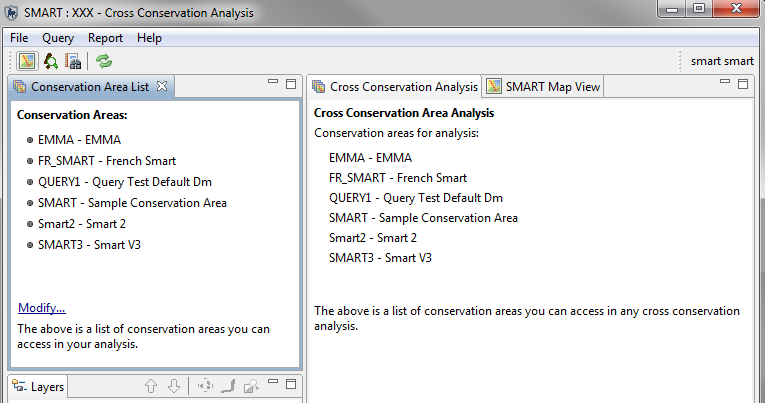
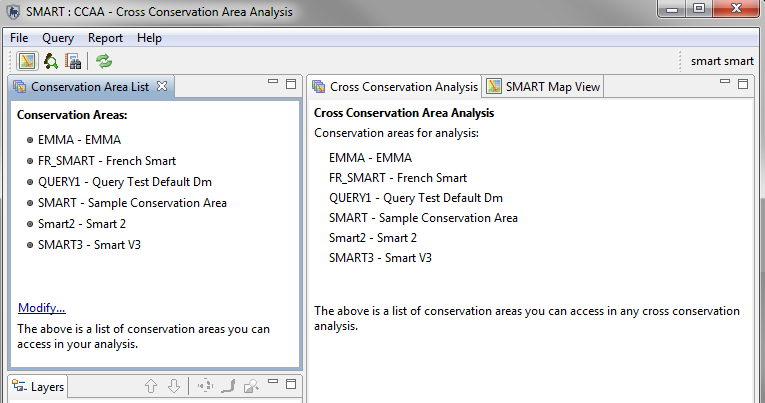
merge fixes from 2.0.0 branch and other bug fixes related to importing waypoints
git-svn-id: https://subversion.assembla.com/svn/smart-cs/trunk@2077 37136b1e-4cb1-4992-8394-573b48a9bdce

Changed region(s): [[0.0, 0.0, 0.3908, 0.0596]]

diff --git a/source/java/org.wcs.smart.help/html/ComponentsOfSMART.html b/source/java/org.wcs.smart.help/html/ComponentsOfSMART.html
@@ -2174,8 +2174,7 @@ height="200" /></p>
 
 <p></p>
 
-<h4><strong><a id="printPlan">Printing
-Plans</a></strong></h4>
+<h4><strong><a id="printPlan">Printing Plans</a></strong></h4>
 
 <p>After a plan has been created it can be converted and viewed in a PDF
 format. The PDF can then be printed or saved for later access. </p>
@@ -2606,10 +2605,12 @@ installation of SMART. </p>
 
 <p></p>
 
-<p><img alt="Cross Conservation Area Login" src="images/X-CA_login.png"
-width="495" height="314" /></p>
+<p><img alt="CCAA Login" src="images/XCA_Login.png" width="500" height="320"
+/></p>
 
-<p>To log in, the user selects <strong>"XXX - Cross Conservation
+<p></p>
+
+<p>To log in, the user selects <strong>"CCAA - Cross Conservation Area
 Analysis"</strong> and is required to enter in the Username and Password that
 is common to the Conservation Areas.</p>
 
@@ -2634,7 +2635,7 @@ elements, the user can begin the process of building queries and reports.</p>
 
 <p><strong>Overview Perspective</strong></p>
 
-<p><img alt="XCA_OVERVIEW" src="images/XCA_OVERVIEW.png" width="765"
+<p><img alt="CCAA Overview" src="images/XCA_OVERVIEW.png" width="765"
 height="403" /></p>
 
 <p></p>
@@ -2783,18 +2784,6 @@ as a standard report.</p>
   <li>Save the report</li>
   <li>Run and/or export a report</li>
 </ul>
-
-<p></p>
-
-<p></p>
-
-<p></p>
-
-<p></p>
-
-<p></p>
-
-<p></p>
 
 <p></p>
 </body>

diff --git a/source/java/org.wcs.smart.patrol/src/org/wcs/smart/patrol/internal/ui/importwp/GPSDataImport.java b/source/java/org.wcs.smart.patrol/src/org/wcs/smart/patrol/internal/ui/importwp/GPSDataImport.java
@@ -22,6 +22,7 @@
 package org.wcs.smart.patrol.internal.ui.importwp;
 
 import java.io.File;
+import java.sql.Time;
 import java.text.DateFormat;
 import java.text.MessageFormat;
 import java.text.ParseException;
@@ -36,6 +37,7 @@ import java.util.HashMap;
 import java.util.HashSet;
 import java.util.Iterator;
 import java.util.List;
+import java.util.Locale;
 import java.util.Map;
 import java.util.Map.Entry;
 import java.util.Set;
@@ -165,27 +167,28 @@ public class GPSDataImport {
 			for(PatrolLegDay pld : modified){
 				addedWaypoints.addAll(pld.getWaypoints());
 			}
-			//TODO: ensure this is tested
-//			//remove unassigned waypoints
-//			for (Iterator<Waypoint> iterator = waypoints.iterator(); iterator.hasNext();) {
-//				Waypoint wpnt = (Waypoint) iterator.next();
-//				if (wpnt.getPatrolLegDay() == null){
-//					iterator.remove();
-//				}
-//			}
-			message = MessageFormat.format(Messages.GPSDataImport_WaypointsImported, new Object[]{waypoints.size(), modified.size()});
-	
+			if (addedWaypoints.size() == 0){
+				//nothing imported; not date matched
+				message = MessageFormat.format(Messages.ImportGpsDataWizard_GPS_WarningNoneFound, new  Object[]{ImportType.WAYPOINT.guiName, ImportType.WAYPOINT.guiName});
+			}else{
+				message = MessageFormat.format(Messages.GPSDataImport_WaypointsImported, new Object[]{addedWaypoints.size(), modified.size()});
+			}	
 		}else{
 			modified.add(currentLeg);
-			
 			for (Waypoint w : waypoints){
-				
 				PatrolWaypoint pwp = new PatrolWaypoint();
 				pwp.setPatrolLegDay(currentLeg);
 				pwp.setWaypoint(w);				
 				
 				currentLeg.getWaypoints().add(pwp);
 				addedWaypoints.add(pwp);
+				if (op == ImportOption.SELECT){
+					Date wpdt = currentLeg.getDate();
+					if (pwp.getWaypoint().getDateTime() != null){
+						wpdt = SmartUtils.combineDateTime(wpdt, new Time(pwp.getWaypoint().getDateTime().getTime()));
+					}
+					pwp.getWaypoint().setDateTime(wpdt);
+				}
 			}
 			message = MessageFormat.format(Messages.GPSDataImport_WaypointsImportedCurrentDay, new Object[]{waypoints.size()});
 		}
@@ -598,20 +601,37 @@ public class GPSDataImport {
 			wpdt = wptType.getTime().toGregorianCalendar().getTime();
 		} else if (wptType.getCmt() != null) {
 			try {
-				// am-pm
+				// am-pm in system locale
 				SimpleDateFormat sdf = new SimpleDateFormat("dd-MMM-yy h:mm:ssa"); //$NON-NLS-1$
 				wpdt = sdf.parse(wptType.getCmt());
 			} catch (ParseException e) {
 			}
+			
 			if (wpdt == null) {
 				try {
 					// 24hr
-					SimpleDateFormat sdf = new SimpleDateFormat(
-							"dd-MMM-yy H:mm:ss"); //$NON-NLS-1$
+					SimpleDateFormat sdf = new SimpleDateFormat("dd-MMM-yy H:mm:ss"); //$NON-NLS-1$
 					wpdt = sdf.parse(wptType.getCmt());
 				} catch (ParseException e) {
 				}
 			}
+			
+			if (!Locale.getDefault().equals(Locale.ENGLISH)){
+				try {
+					// am-pm in english locale
+					SimpleDateFormat sdf = new SimpleDateFormat("dd-MMM-yy h:mm:ssa", Locale.ENGLISH); //$NON-NLS-1$
+					wpdt = sdf.parse(wptType.getCmt());
+				} catch (ParseException e) {
+				}
+				try {
+					// 24hr in english locale
+					SimpleDateFormat sdf = new SimpleDateFormat("dd-MMM-yy H:mm:ss", Locale.ENGLISH); //$NON-NLS-1$
+					wpdt = sdf.parse(wptType.getCmt());
+				} catch (ParseException e) {
+				}
+			}
+			
+			
 			if (wpdt == null) {
 				try {
 					// short
@@ -719,7 +739,7 @@ public class GPSDataImport {
 					} else  {
 						// only import waypoints whose imported date match the
 						// given date
-						if (SmartUtils.getDatePart(newwp.getDateTime(), false).equals(plddt)) {
+						if (newwp.getDateTime() != null && SmartUtils.getDatePart(newwp.getDateTime(), false).equals(plddt)) {
 							newwaypoints.add(newwp);
 						}
 					}

diff --git a/source/java/org.wcs.smart.patrol/src/org/wcs/smart/patrol/ui/SaveWaypointJob.java b/source/java/org.wcs.smart.patrol/src/org/wcs/smart/patrol/ui/SaveWaypointJob.java
@@ -31,12 +31,14 @@ import org.eclipse.core.runtime.Status;
 import org.eclipse.core.runtime.jobs.Job;
 import org.hibernate.Session;
 import org.wcs.smart.hibernate.HibernateManager;
+import org.wcs.smart.hibernate.SmartDB;
 import org.wcs.smart.observation.model.WaypointObservation;
 import org.wcs.smart.observation.model.WaypointObservationAttribute;
 import org.wcs.smart.patrol.PatrolEventManager;
 import org.wcs.smart.patrol.SmartPatrolPlugIn;
 import org.wcs.smart.patrol.internal.Messages;
 import org.wcs.smart.patrol.model.PatrolWaypoint;
+import org.wcs.smart.patrol.model.PatrolWaypointSource;
 import org.wcs.smart.patrol.model.WaypointAttachmentInterceptor;
 
 /**
@@ -70,8 +72,10 @@ public class SaveWaypointJob extends Job {
 		try {
 			saveSession.beginTransaction();
 			for (PatrolWaypoint wp : pnts) {
-				saveSession.saveOrUpdate(wp);
+				wp.getWaypoint().setSourceId(PatrolWaypointSource.PATROL_WP_SOURCE_ID);
+				wp.getWaypoint().setConservationArea(SmartDB.getCurrentConservationArea());
 				saveSession.saveOrUpdate(wp.getWaypoint());
+				saveSession.saveOrUpdate(wp);
 				saveSession.flush();
 				// remove observations with no data
 				if (wp.getWaypoint().getObservations() != null) {